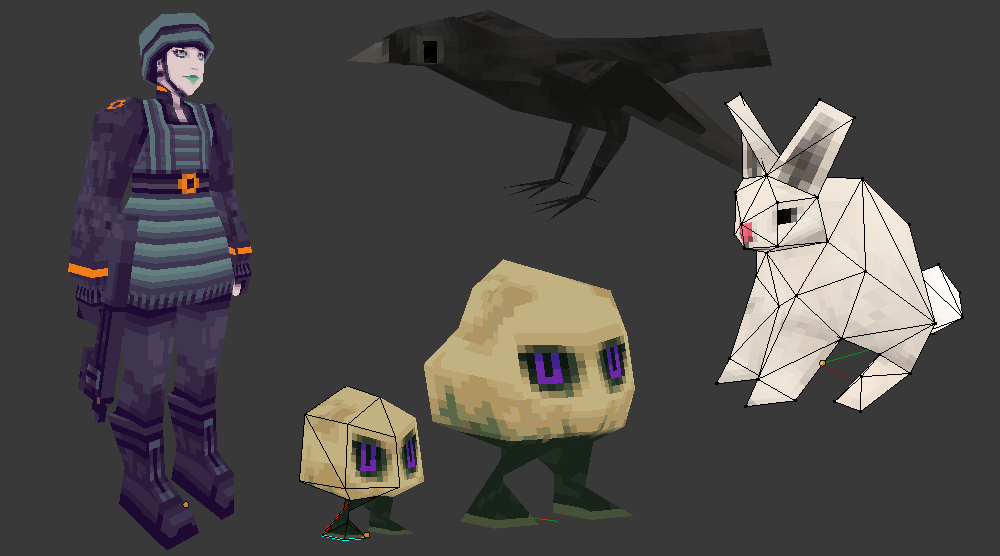
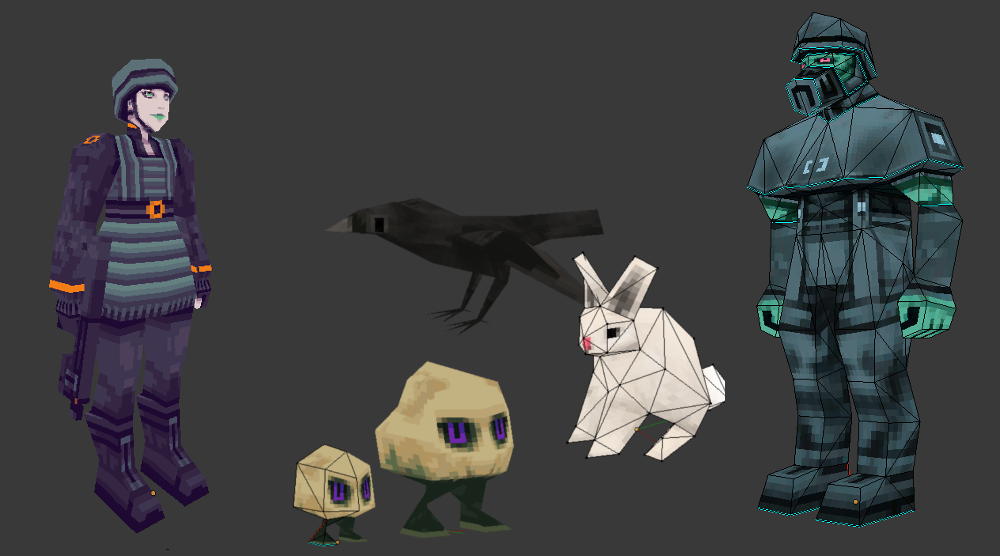
e
f

diff --git a/post/3D.html b/post/3D.html
@@ -98,7 +98,6 @@
 </div>
   <h4>Other Characters</h4>
 <div>
-  <img src="../img/rymdsoldat.png" width=100% />
   <img src="../fps/other.png" width=100% />
   <img src="../fps/snout.png" width=100% />
 </div>

diff --git a/wip/3D.html b/wip/3D.html
@@ -35,7 +35,6 @@
 </div>
   <h4>Other Characters</h4>
 <div>
-  <img src="../img/rymdsoldat.png" width=100% />
   <img src="../fps/other.png" width=100% />
   <img src="../fps/snout.png" width=100% />
 </div>
